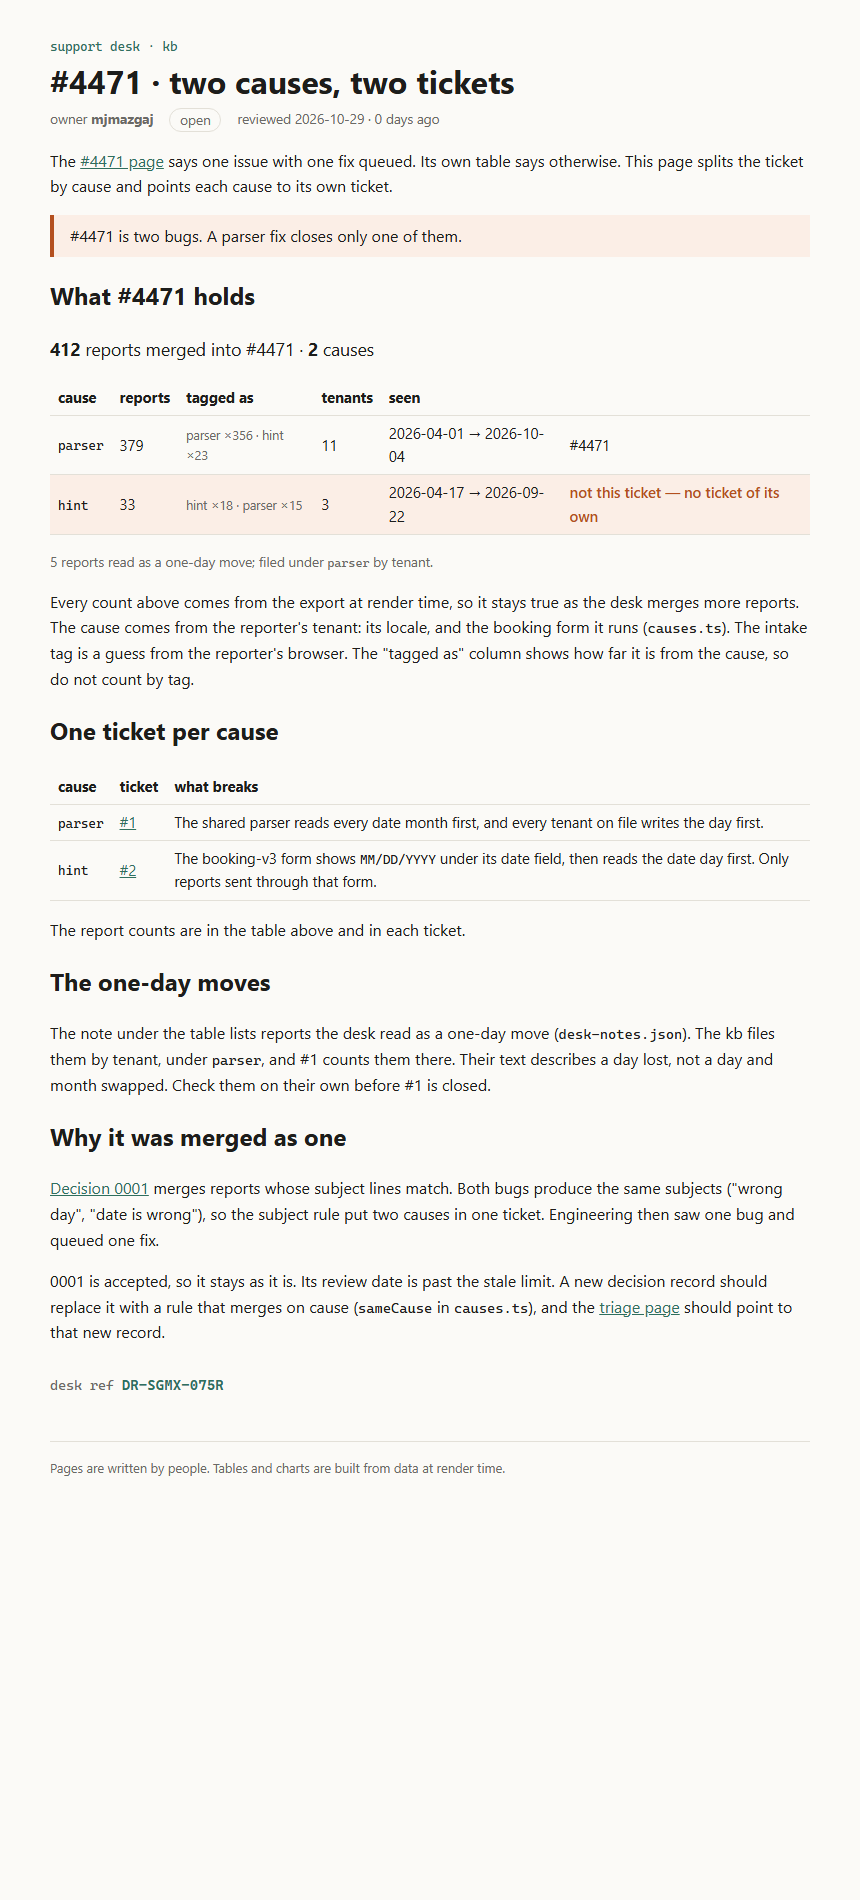
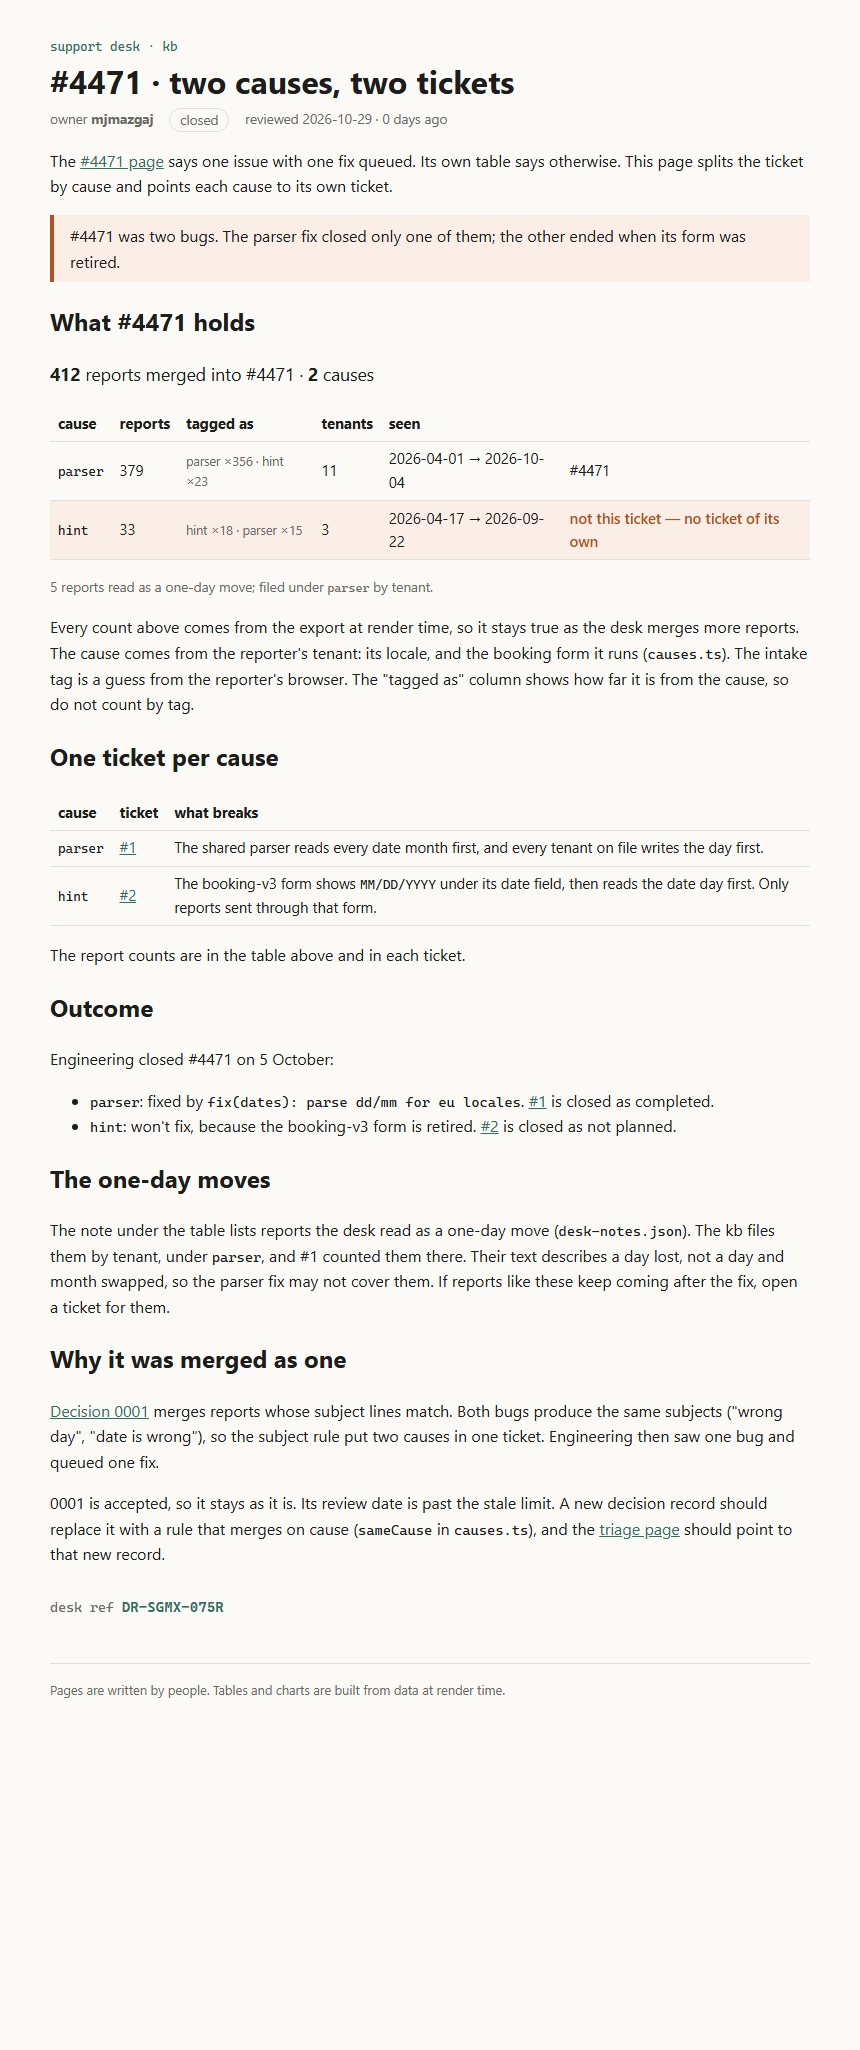
Record the #4471 outcome: parser fixed, hint won't fix

Changed region(s): [[0.0605, 0.0, 0.9372, 0.8384], [0.3628, 0.1553, 0.4233, 0.2174]]

diff --git a/rendered/4471-causes.html b/rendered/4471-causes.html
@@ -50,7 +50,7 @@
     <h1>#4471 · two causes, two tickets</h1>
     <p class="meta">
       <span>owner <b>mjmazgaj</b></span>
-      <span class="status open">open</span>
+      <span class="status closed">closed</span>
       <span>reviewed 2026-10-29 · 0 days ago</span>
     </p>
   </header>
@@ -58,7 +58,7 @@
     <p>The <a href="/kb/incidents/4471">#4471 page</a> says one issue with one fix queued. Its own table says
     otherwise. This page splits the ticket by cause and points each cause to its own ticket.</p>
 
-    <aside class="warn">#4471 is two bugs. A parser fix closes only one of them.</aside>
+    <aside class="warn">#4471 was two bugs. The parser fix closed only one of them; the other ended when its form was retired.</aside>
 
     <h2>What #4471 holds</h2>
 
@@ -95,11 +95,20 @@
 
     <p>The report counts are in the table above and in each ticket.</p>
 
+    <h2>Outcome</h2>
+
+    <p>Engineering closed #4471 on 5 October:</p>
+    <ul>
+      <li><code>parser</code>: fixed by <code>fix(dates): parse dd/mm for eu locales</code>. <a href="https://github.com/mjmazgaj/mega-s01e03-what-it-shows/issues/1">#1</a> is closed as completed.</li>
+      <li><code>hint</code>: won't fix, because the booking-v3 form is retired. <a href="https://github.com/mjmazgaj/mega-s01e03-what-it-shows/issues/2">#2</a> is closed as not planned.</li>
+    </ul>
+
     <h2>The one-day moves</h2>
 
     <p>The note under the table lists reports the desk read as a one-day move (<code>desk-notes.json</code>). The kb
-    files them by tenant, under <code>parser</code>, and #1 counts them there. Their text describes a day lost,
-    not a day and month swapped. Check them on their own before #1 is closed.</p>
+    files them by tenant, under <code>parser</code>, and #1 counted them there. Their text describes a day lost,
+    not a day and month swapped, so the parser fix may not cover them. If reports like these keep
+    coming after the fix, open a ticket for them.</p>
 
     <h2>Why it was merged as one</h2>
 

diff --git a/README.md b/README.md
@@ -4,10 +4,12 @@ The support desk merged 412 date reports into ticket #4471 and marked it as one 
 
 ## Tickets
 
-| cause | ticket | reports |
-| --- | --- | --- |
-| `parser`: the shared parser reads day-first dates month first | [#1](https://github.com/mjmazgaj/mega-s01e03-what-it-shows/issues/1) | 379 |
-| `hint`: the booking-v3 form hint says MM/DD, and the form reads the date day first | [#2](https://github.com/mjmazgaj/mega-s01e03-what-it-shows/issues/2) | 33 |
+| cause | ticket | reports | outcome |
+| --- | --- | --- | --- |
+| `parser`: the shared parser reads day-first dates month first | [#1](https://github.com/mjmazgaj/mega-s01e03-what-it-shows/issues/1) | 379 | fixed: `fix(dates): parse dd/mm for eu locales` (closed, completed) |
+| `hint`: the booking-v3 form hint says MM/DD, and the form reads the date day first | [#2](https://github.com/mjmazgaj/mega-s01e03-what-it-shows/issues/2) | 33 | won't fix: booking-v3 form retired (closed, not planned) |
+
+Engineering closed #4471 on 5 October.
 
 ## Page
 
